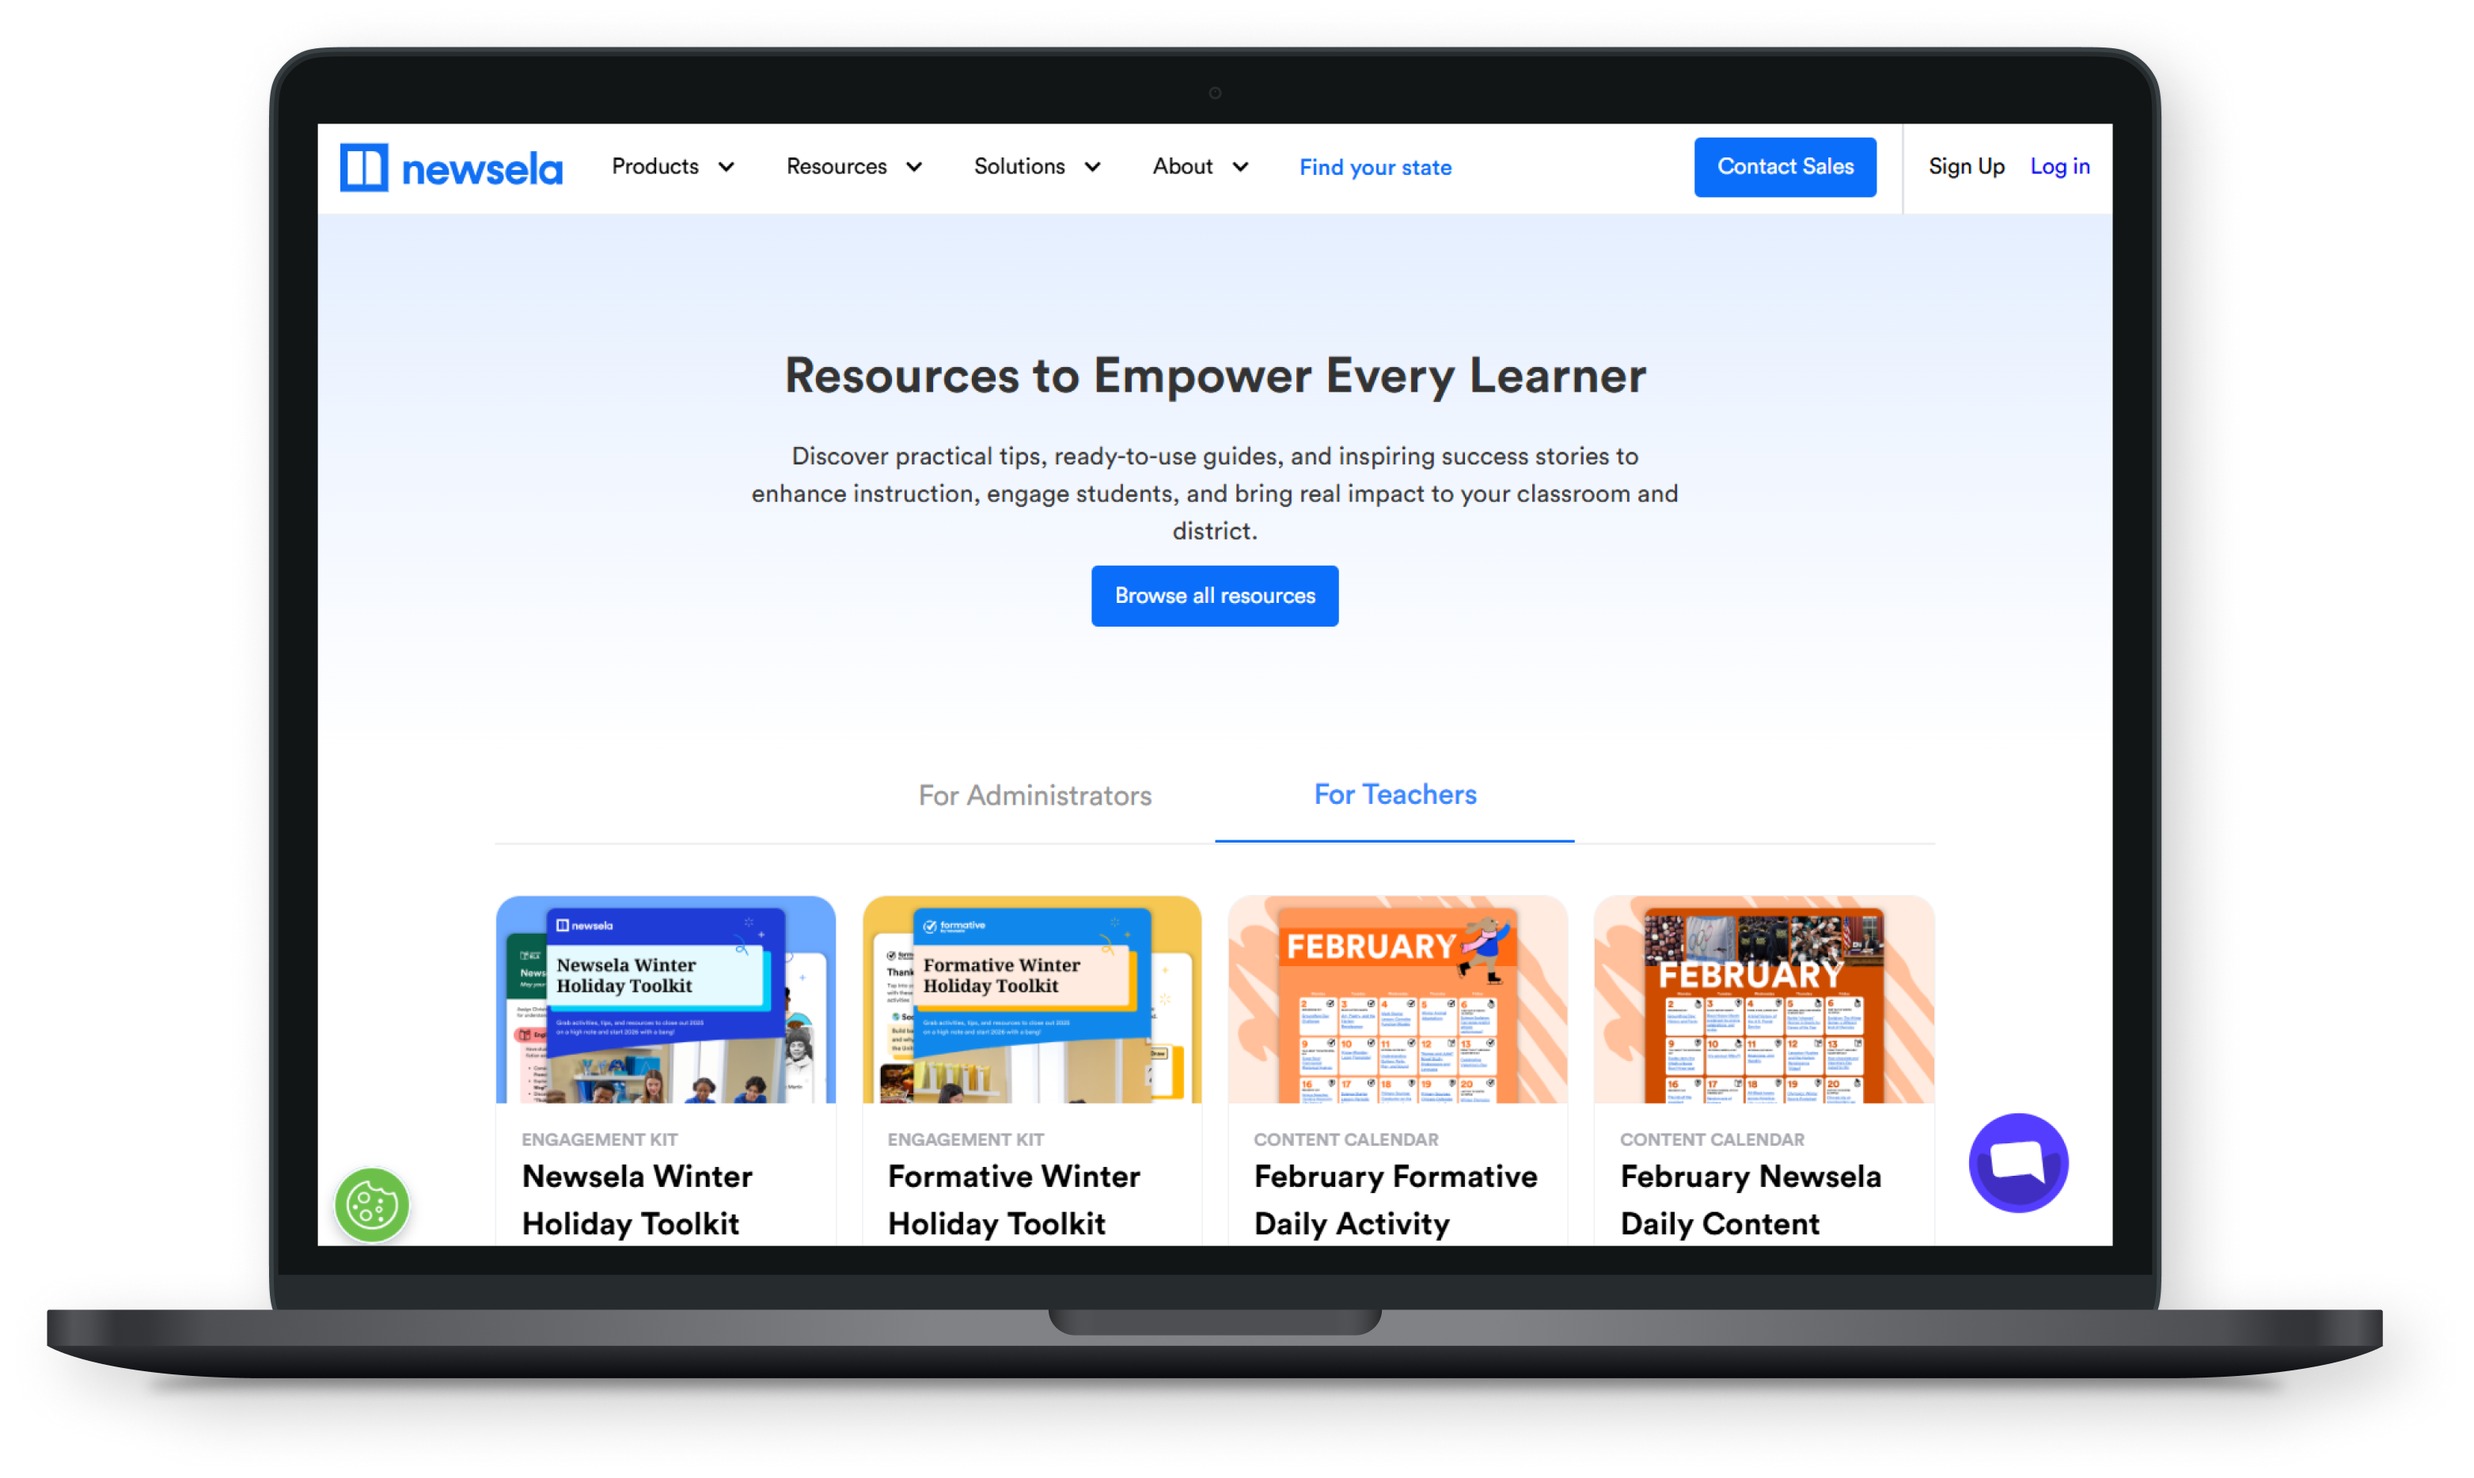
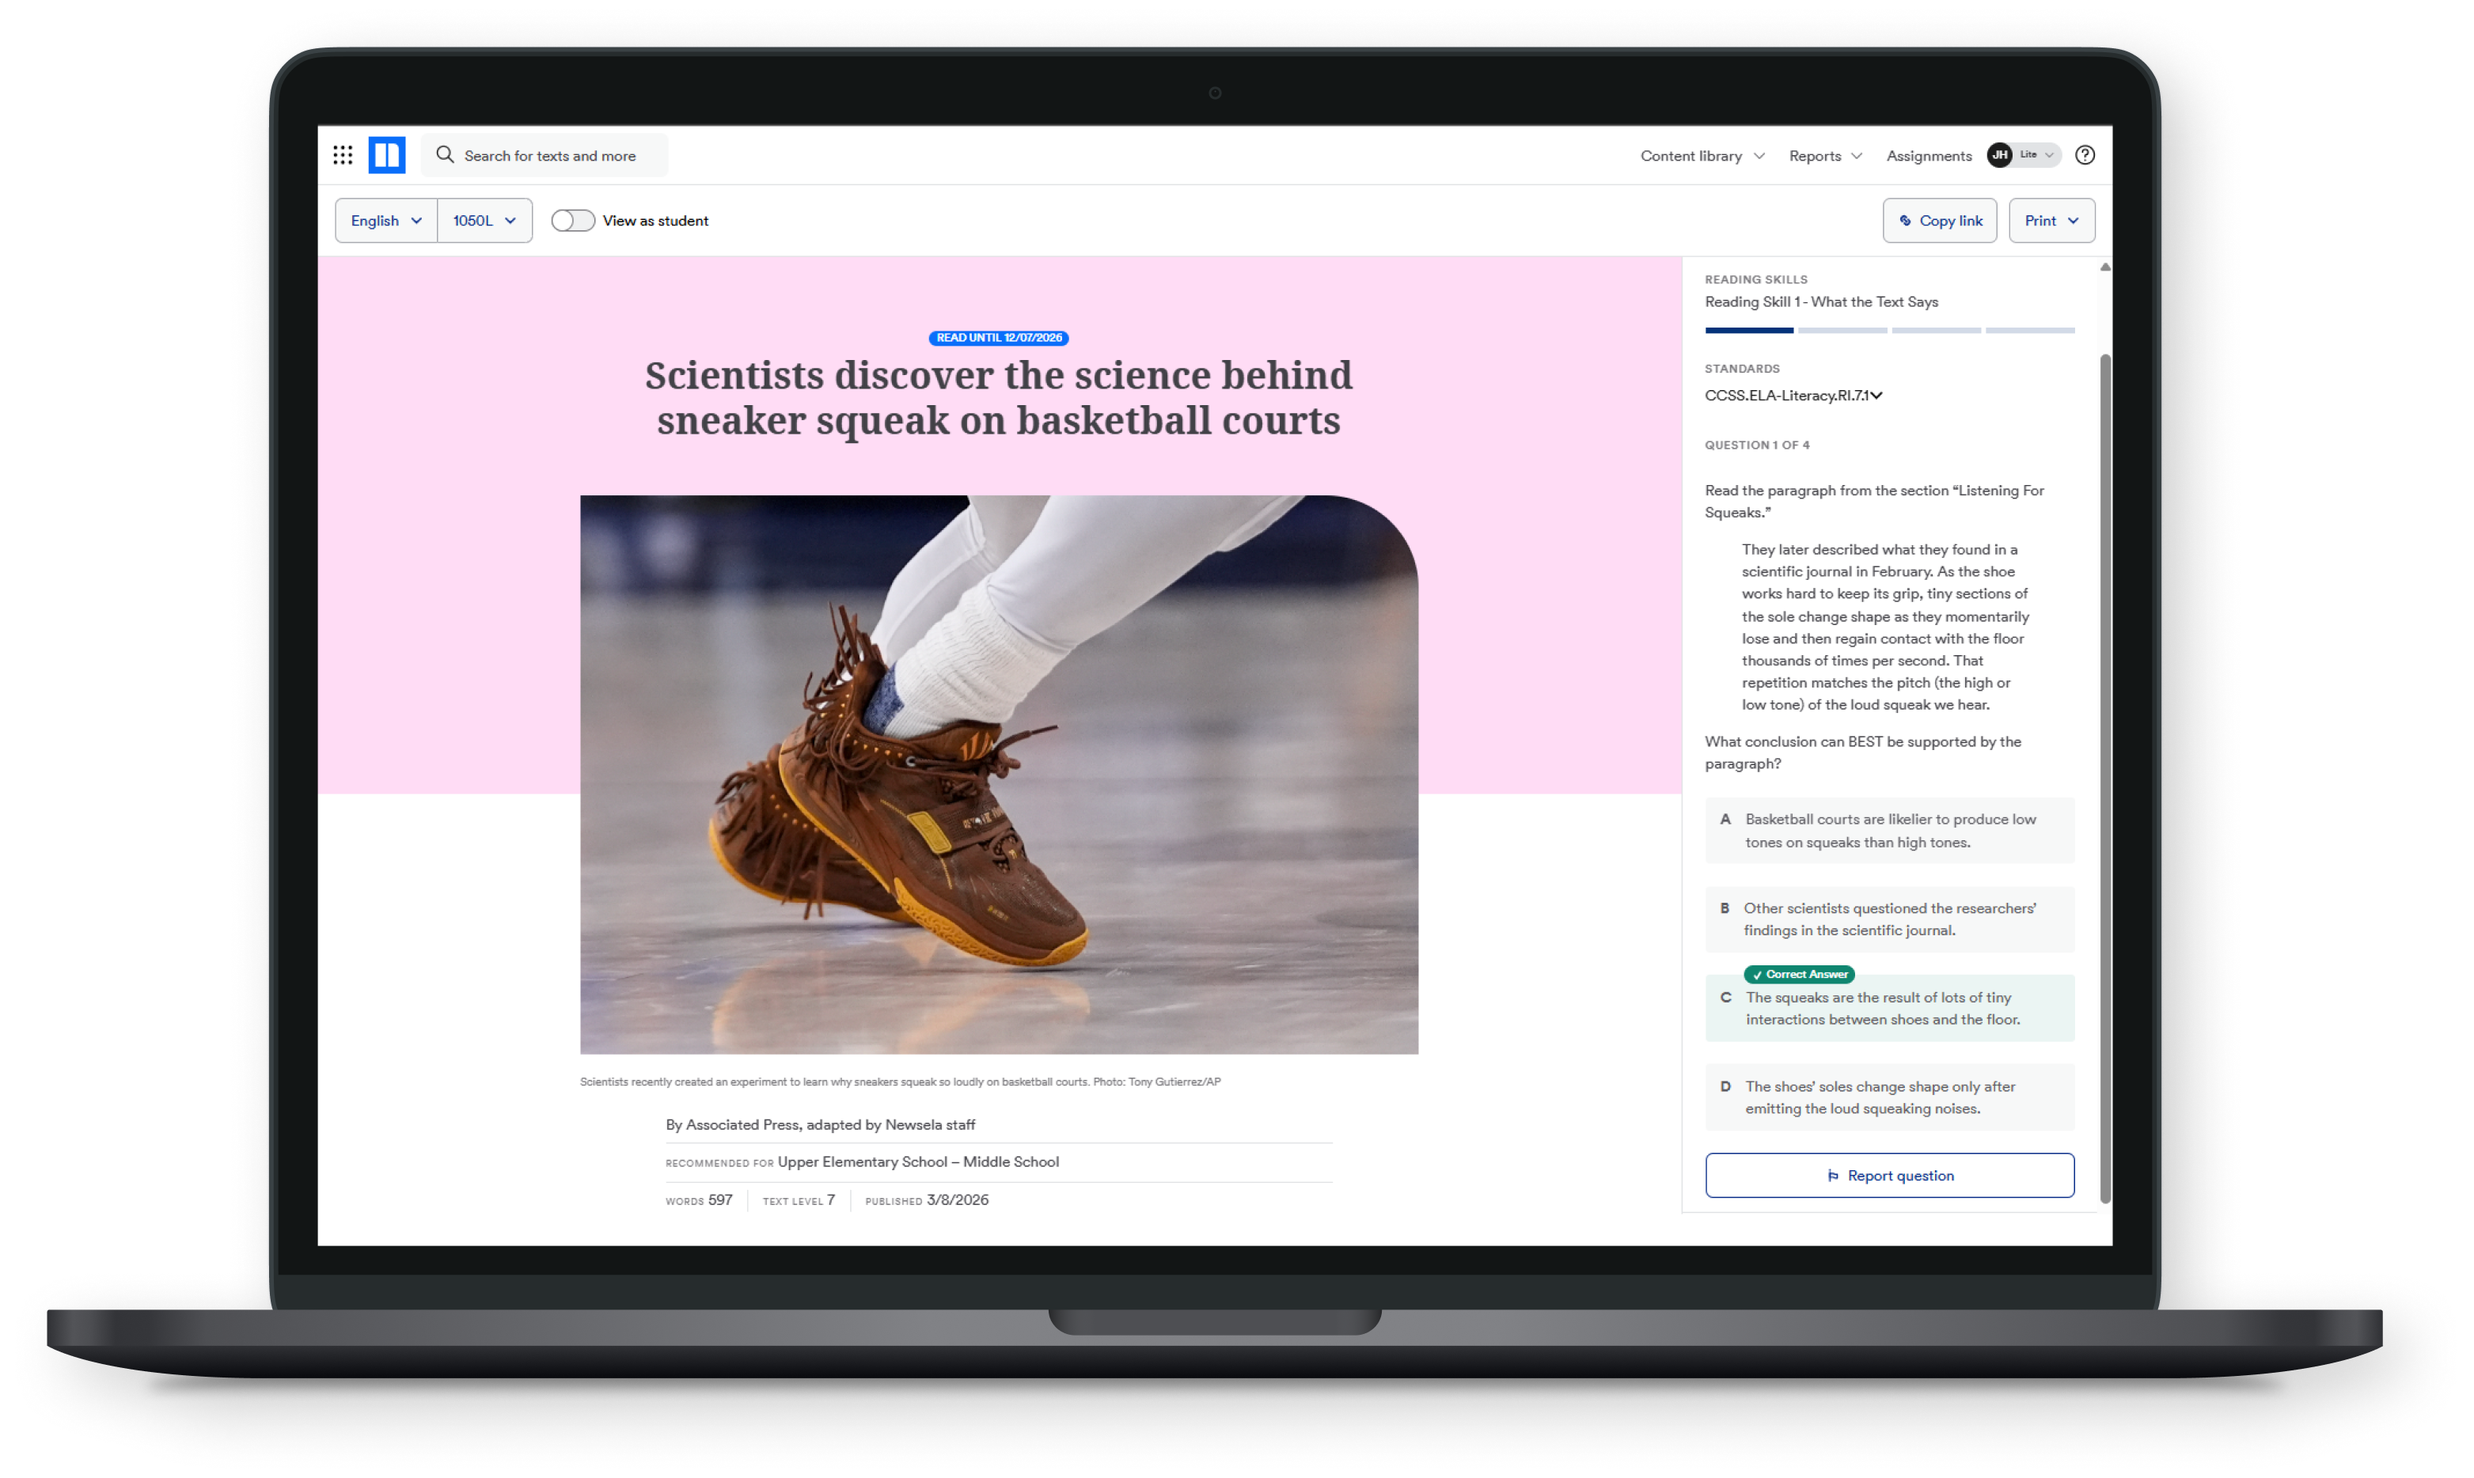
comite

Changed region(s): [[0.1241, 0.0931, 0.8688, 0.8383], [0.1241, 0.7762, 0.1862, 0.8383], [0.7137, 0.3105, 0.8068, 0.3415]]

diff --git a/index.html b/index.html
@@ -44,7 +44,7 @@
             </div>
             
             <div class="secondary-cards">
-                <div class="card card-minor" data-image="images/teachers-ux/AI-dummy.png" data-bgcolor="#3B82F6" data-media-type="image" data-aspect-ratio="landscape" data-href="pages/teachers-ux.html">
+                <div class="card card-minor" data-image="images/teachers-ux/newsela-cover.png" data-bgcolor="#3B82F6" data-media-type="image" data-aspect-ratio="landscape" data-href="pages/teachers-ux.html">
                     <div class="card-tags">
                         <span class="tag">UX RESEARCH</span>
                         <span class="tag">ED TECH</span>

diff --git a/styles/global.css b/styles/global.css
@@ -188,7 +188,7 @@ p {
     display: flex;
     align-items: center;
     justify-content: center;
-    padding: var(--spacing-xl);
+
     flex: 0 0 50%;
     height: 100vh;
     transition: background-color 1s cubic-bezier(0.4, 0, 0.2, 1);
